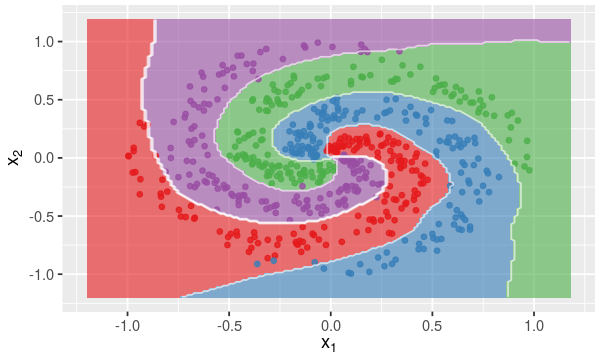
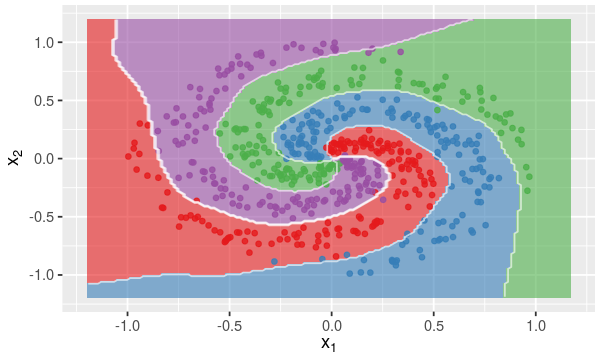
Add new package dependencies

diff --git a/README.md b/README.md
@@ -5,7 +5,7 @@
 
 ***This is a BETA release and for now it works only for classification problems.***
 
-The `elmnet` function implements a tuning free regularized learner based on Extreme Learning Machines (ELMs). It uses **Generalized Cross Validation** (GCV), a fast and efficient leave-one-out approach, to automatically define the best regularization parameter.
+The `elmnet` function implements a tuning free regularized learner based on Extreme Learning Machines (ELMs) (Huang, Wang, and Lan 2011). It uses **Generalized Cross Validation** (GCV), a fast and efficient leave-one-out approach, to automatically define the best regularization parameter.
 
 So, `elmnet` is a fast and easy to use nonlinear learner. Moreover, it uses a **softmax** function on the output layer to predict **calibrated probabilities**.
 
@@ -13,14 +13,16 @@ So, `elmnet` is a fast and easy to use nonlinear learner. Moreover, it uses a **
 
 ``` r
 library('devtools')
-install_github(repo = "davidnexer/elmnet")
+install_github(repo = "davpinto/elmnet")
 ```
 
 ### Required Packages
 
+The following packages are required to make `emlnet` work properly. All of them will be automatically instaled when you install `elmnet`.
+
 -   `magrittr` to use the pipe operator `%>%`,
 -   `matrixStats` for fast row-wise and column-wise matrix operations,
--   `doSnow` to train multiclass models in parallel. The `elmnet` package uses **all available cores** by default,
+-   `doSNOW` and `foreach` to train multiclass models in parallel. The `elmnet` package uses **all available cores** by default,
 -   `ggplot2` to plot classification decision boundaries.
 
 Regularization Methods
@@ -57,6 +59,7 @@ x <- spirals$x
 y <- spirals$y
 
 # Split data
+set.seed(111)
 tr.idx <- caTools::sample.split(y, SplitRatio = 0.7)
 x.tr <- x[tr.idx,]
 x.te <- x[!tr.idx,]
@@ -64,6 +67,7 @@ y.tr <- y[tr.idx]
 y.te <- y[!tr.idx]
 
 # Fit ELM model
+set.seed(111)
 elm.model <- elmnet(x.tr, y.tr, nodes = 300, standardize = TRUE)
 
 # Draw classification decision boudary
@@ -81,6 +85,7 @@ x <- multi_spirals$x
 y <- multi_spirals$y
 
 # Split data
+set.seed(222)
 tr.idx <- caTools::sample.split(y, SplitRatio = 0.7)
 x.tr <- x[tr.idx,]
 x.te <- x[!tr.idx,]
@@ -88,6 +93,7 @@ y.tr <- y[tr.idx]
 y.te <- y[!tr.idx]
 
 # Fit ELM model
+set.seed(222)
 elm.model <- elmnet(x.tr, y.tr, nodes = 300, standardize = TRUE)
 
 # Draw classification decision boudary
@@ -100,6 +106,8 @@ elmDecisionBound(elm.model, x.te, y.te, resamp = 150)
 
 References
 ==========
+
+Huang, Guang-Bin, Dian Hui Wang, and Yuan Lan. 2011. “Extreme Learning Machines: A Survey.” *International Journal of Machine Learning and Cybernetics* 2 (2). Springer: 107–22.
 
 Miche, Yoan, Antti Sorjamaa, Patrick Bas, Olli Simula, Christian Jutten, and Amaury Lendasse. 2010. “OP-ELM: Optimally Pruned Extreme Learning Machine.” *IEEE Transactions on Neural Networks* 21 (1). IEEE: 158–62.
 
